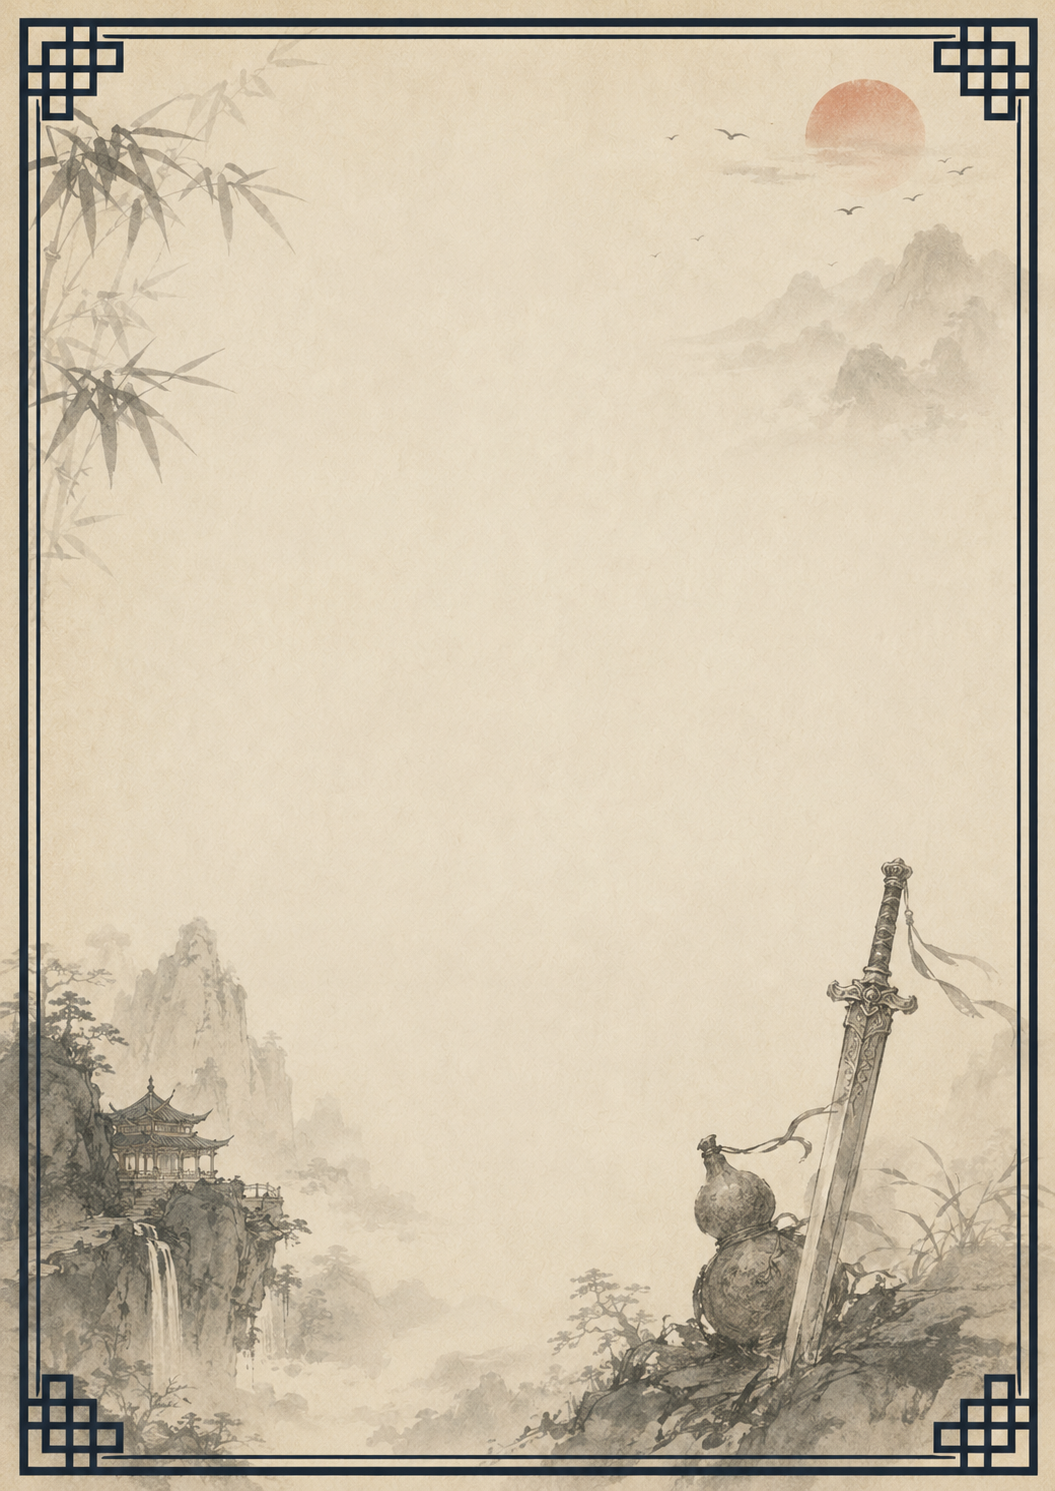
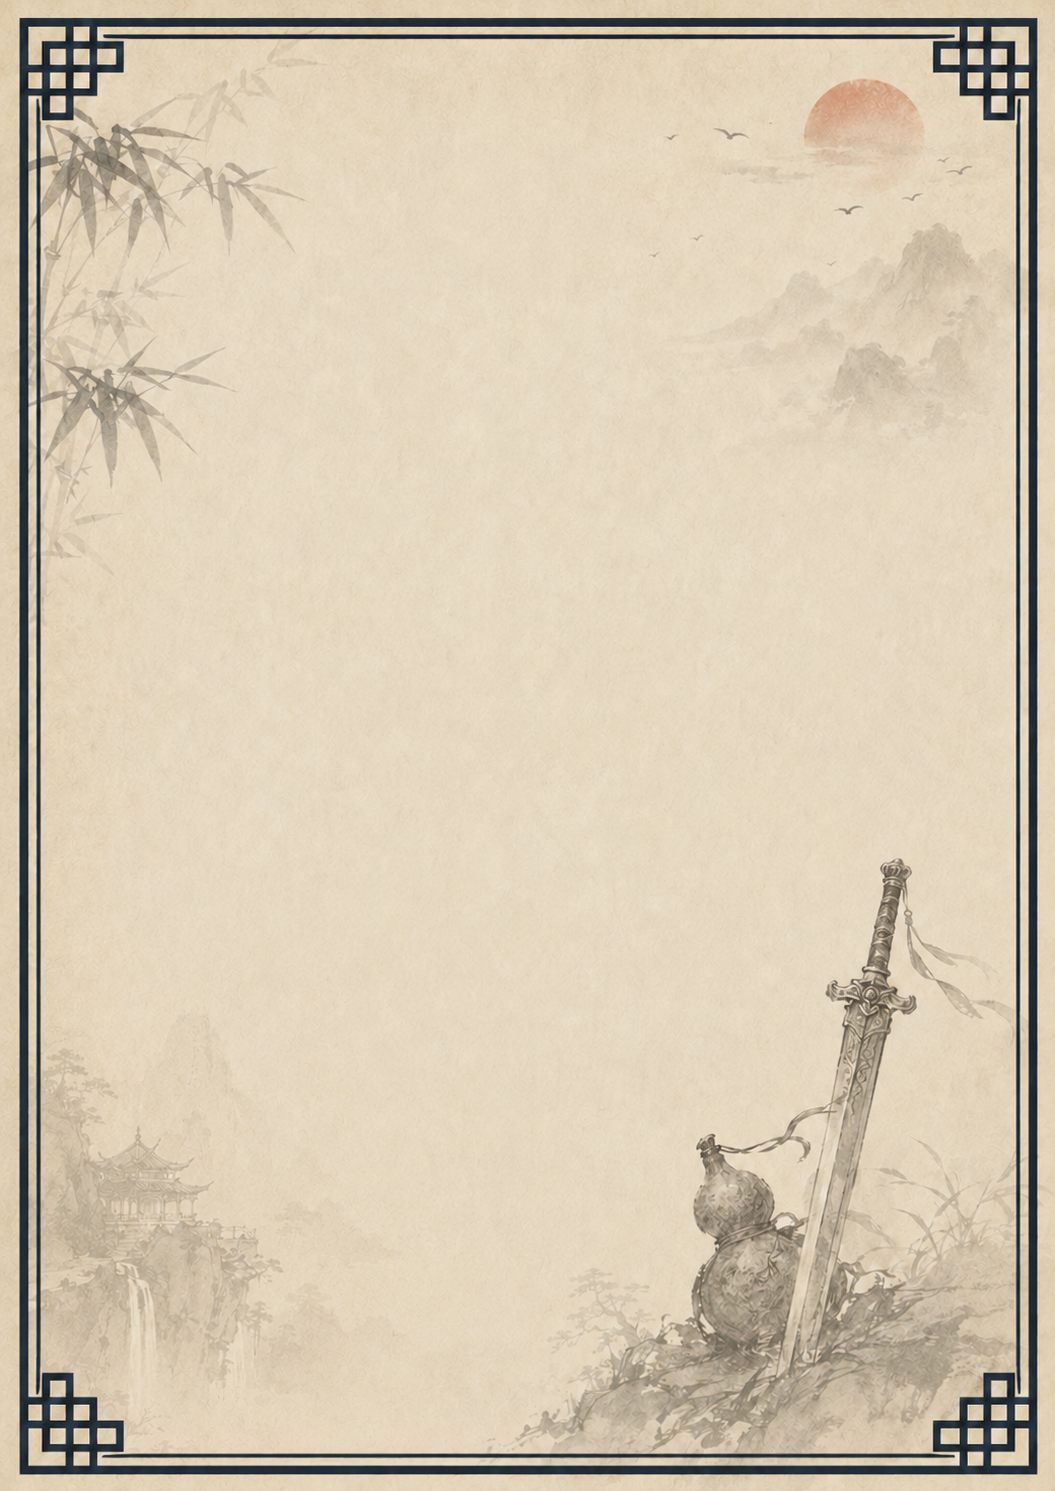
调整了一下角色卡预览的细节

Changed region(s): [[0.0, 0.0309, 1.0, 1.0], [0.0607, 0.2468, 0.1517, 0.2777], [0.0303, 0.0309, 0.0607, 0.0617]]

diff --git a/styles/apps/_character-preview.css b/styles/apps/_character-preview.css
@@ -220,12 +220,12 @@
 .xjzl-character-preview-app .combat-cell .th {
     width: 90px;
     border-right: 1px solid #36261b;
-    padding: 10px;
+    padding: 10px 10px 10px 15px;
     font-weight: bold;
     font-size: 1.1em;
     display: flex;
     align-items: center;
-    justify-content: center;
+    justify-content: flex-start;
 }
 
 .xjzl-character-preview-app .combat-cell .td {
